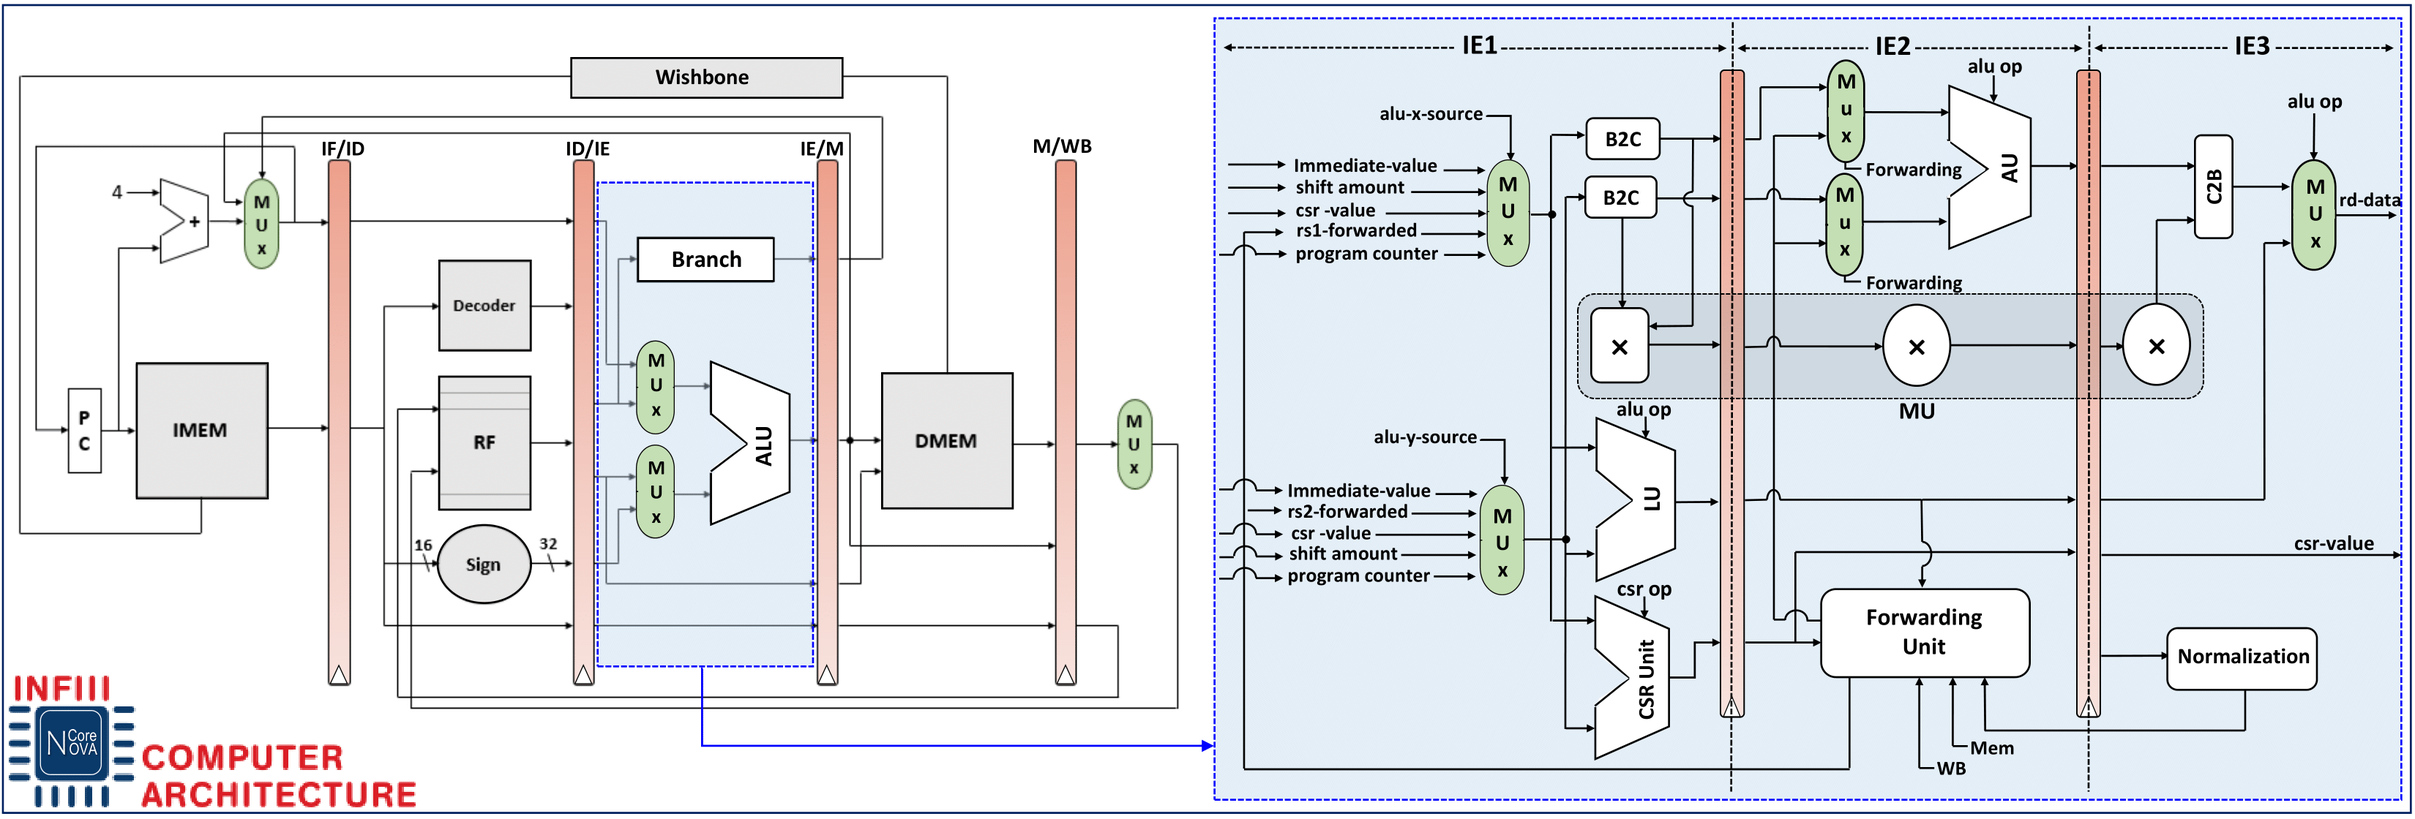
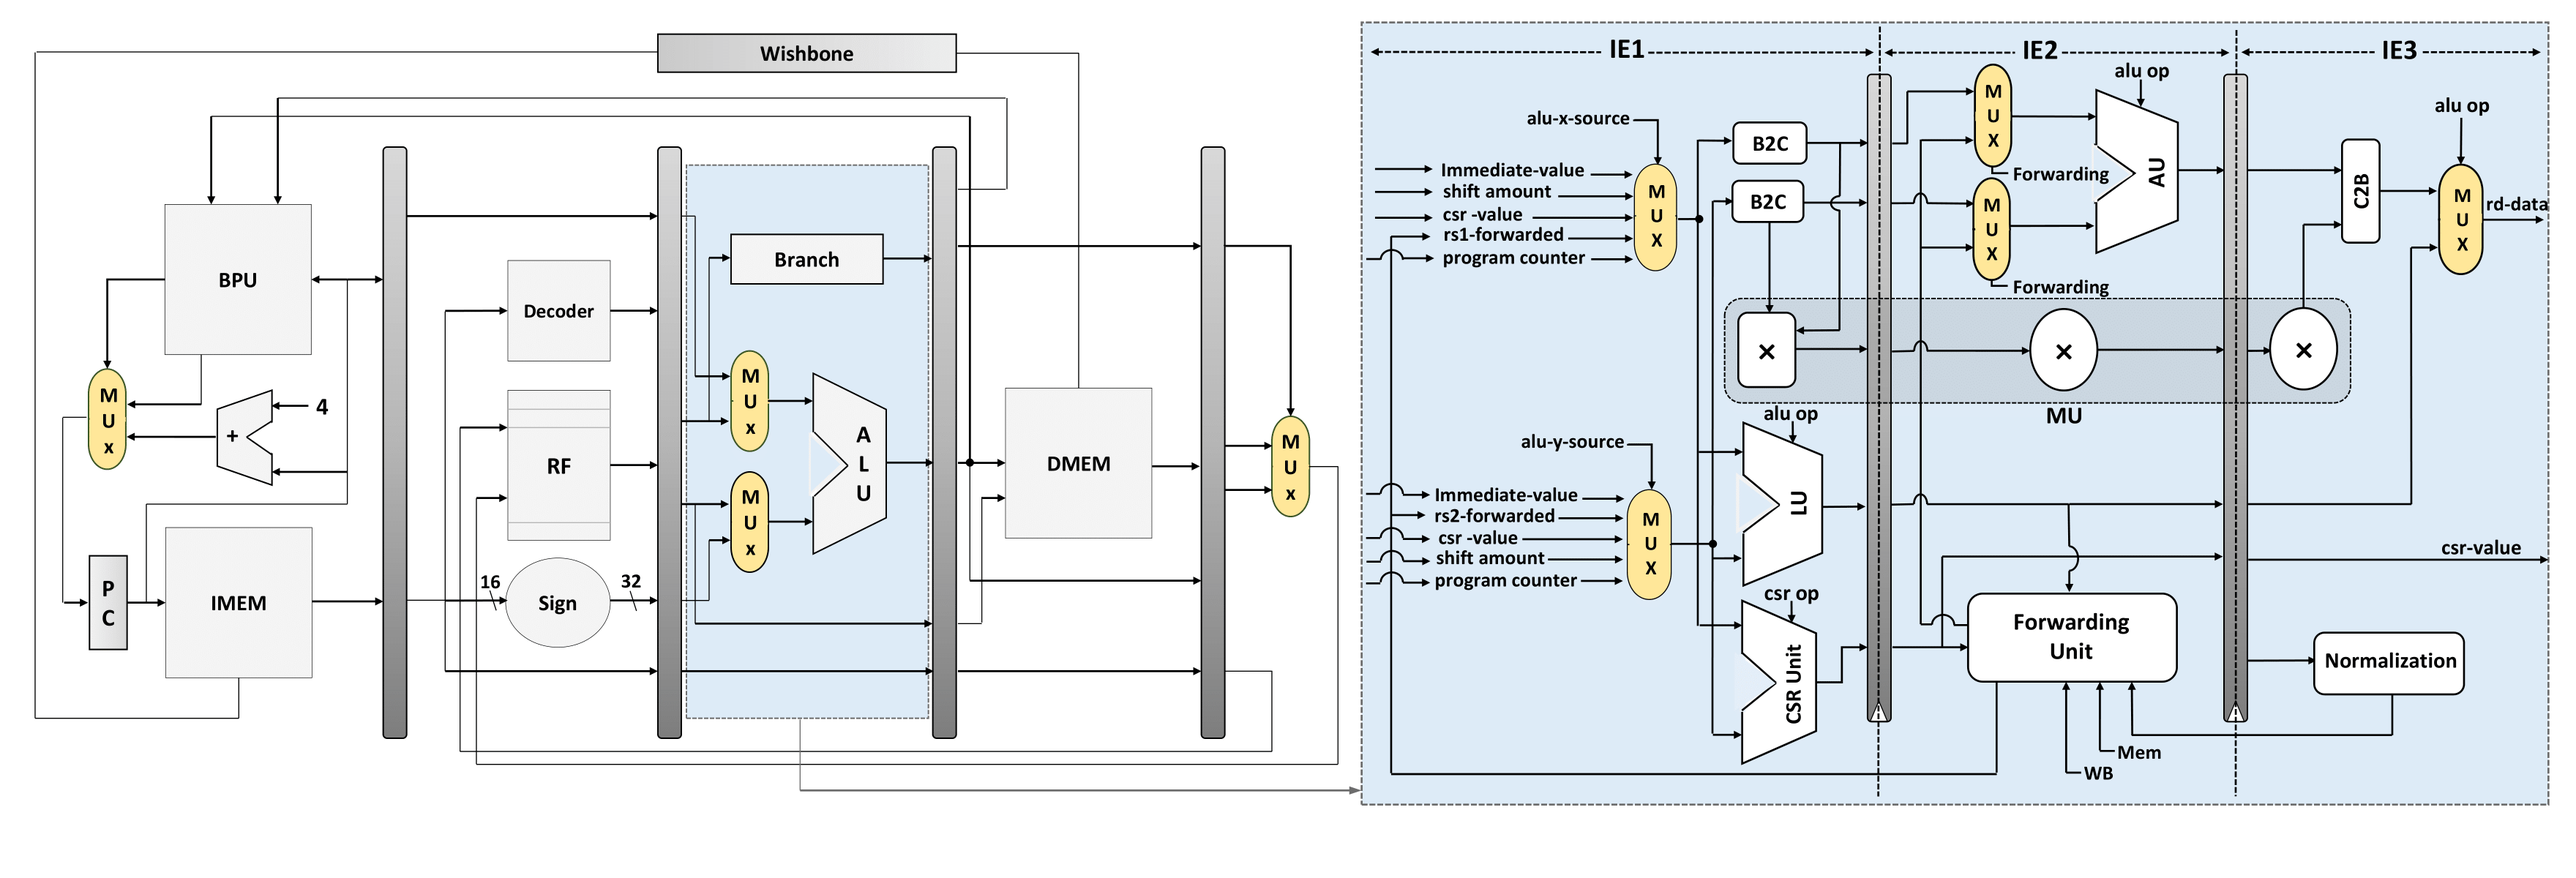
Minor updates in Readme.md files

diff --git a/example/README.md b/example/README.md
@@ -1,99 +1,68 @@
-# System-On-Chip Design using the NOVA Core
+# System-On-Chip Design using the NOVACore
 
-This folder contains an SoC design using the NOVA Core. The design
-has been synthesized using Vivado 2023.1 and tested on an zybo Z7-20 
-board from Digilent.
+This folder contains an SoC design using the NOVACore. The design has been synthesized using Vivado 2023.1 and tested on an zybo Z7-20 and ultra96-v2 boards.
 
-## Quick Start
+## Quick Start with Zybo
 
-In order to test the example design, start by creating a new project in
-Vivado. In the "Project Type" screen, select "RTL Project". Make sure
-the "Do not specify source at this time" box is *unchecked*.
+In order to test the example design, start by creating a new project in Vivado. In the "Project Type" screen, select "RTL Project". Make sure the "Do not specify source at this time" box is *unchecked*.
 
 ### Adding Source Files
 
-In the "Add Sources" screen, add all source files from the `src/`, `soc/`
-and `example/` directories. Some of the added files may not be used by the 
-design; after the project has been created,you can remove everything that 
-is not included under the `toplevel` entity in the hierarchy view.
+In the "Add Sources" screen, add all source files from the `src/`, `soc/` and `example/` directories. Some of the added files may not be used by the design; after the project has been created,you can remove everything that is not included under the `toplevel` entity in the hierarchy view.
 
 Before clicking "Next", make sure that the "Target language" is set to VHDL.
 
-In the "Add Constraints" screen, add the `zybo.xdc` file from the `constraints/`
-directory. If you are not synthesizing the design for the zybo board, you
-will have to modify this file to make the design work.
+In the "Add Constraints" screen, add the `zybo.xdc` file from the `constraints/` directory. If you are not synthesizing the design for the zybo board, you will have to modify this file to make the design work.
 
-After creating the project, verify that the toplevel entity in your project
-is called `toplevel` (from the `toplevel.vhd` file).
+After creating the project, verify that the toplevel entity in your project is called `toplevel` (from the `toplevel.vhd` file).
 
-In addition to the source files, a couple of IP modules are needed to take
-advantage of the FPGAs builtin resources - the following sections deal with
-adding and configuring these.
+In addition to the source files, a couple of IP modules are needed to take advantage of the FPGAs builtin resources - the following sections deal with adding and configuring these.
 
 ### Clock Generator
 
-The processor cannot run on the native 125 MHz clock signal provided
-by the development board. Therefore, it is necessary to use a clock management
-tile to synthesize the necessary system clock as well as other necessary clocks.
+The processor cannot run on the native 125 MHz clock signal provided by the development board. Therefore, it is necessary to use a clock management tile to synthesize the necessary system clock as well as other necessary clocks.
 
-Add a clock generator to the design using the Clocking Wizard. Name the generated
-component "clock_generator". Make sure the following options are selected in the
-"Clocking Options" tab:
+Add a clock generator to the design using the Clocking Wizard. Name the generated component "clock_generator". Make sure the following options are selected in the "Clocking Options" tab:
 
 * Frequency synthesis - Enables synthesis of clock frequencies we need.
 * Safe clock startup - Waits with starting the output clocks until the clock is stable.
 
-Set the name of the primary input clock to be `clk`, and verify that the input
-frequency is set to 125 MHz.
+Set the name of the primary input clock to be `clk`, and verify that the input frequency is set to 125 MHz.
 
-Go to the "Output Clocks" tab and enable `clk_out1`. Set the frequency
-of `clk_out1` to 95.500 MHz. This will be the main system clock.
+Go to the "Output Clocks" tab and enable `clk_out1`. Set the frequency of `clk_out1` to 95.500 MHz. This will be the main system clock.
 
-If you have peripherals that require additional clocks, you can enable more clock
-outputs here.
+If you have peripherals that require additional clocks, you can enable more clock outputs here.
 
 Rename `clk_out1` to `system_clk` to match the port names expected by the toplevel entity.
 
-At the bottom of the "Output Clocks" tab, find the "Enable Optional Inputs/Outputs"
-section and select `reset` and `locked` signals. The `locked` signal is used to
-release the system reset signal when the clock signal is stable.
+At the bottom of the "Output Clocks" tab, find the "Enable Optional Inputs/Outputs" section and select `reset` and `locked` signals. The `locked` signal is used to release the system reset signal when the clock signal is stable.
 
-Set the "Reset Type" to "Active low" - this makes it possible to connect the reset
-signal for the clock generator directly to the processor reset button on the development
-board.
+Set the "Reset Type" to "Active low" - this makes it possible to connect the reset signal for the clock generator directly to the processor reset button on the development board.
 
 ### AEE ROM
 
-The AEE (Application Execution Environment) ROM is a read-only memory intended to
-store bootloaders. Before continuing, build the bootloader application, located in
+The AEE (Application Execution Environment) ROM is a read-only memory intended to store bootloaders. Before continuing, build the bootloader application located in
 the `software/` directory.
 
     cd software/bootloader
     make
 
-Add a block RAM IP to use as the ROM using the Block Memory Generator. Name the component
-"aee_rom". In the "Basic" tab choose a "Native" interface type and set "Memory Type" to
-"Single-Port ROM".
+Add a block RAM IP to use as the ROM using the Block Memory Generator. Name the component "aee_rom". In the "Basic" tab choose a "Native" interface type and set "Memory Type" to "Single-Port ROM".
 
 Go to the "Port A Options" tab and set the following settings:
 
 * Port A Width: 32
 * Port A depth: 4096
 
-Disable the use of the enable pin and reset functionality, as these are not
-used by the ROM wrapper module. Also uncheck the "Primitives Output Register" box register.
+Disable the use of the enable pin and reset functionality, as these are not used by the ROM wrapper module. Also uncheck the "Primitives Output Register" box register.
 
-Under "Other Options", check the "Load Init File" option and give the location
-of the coefficient file for the bootloader application.
+Under "Other Options", check the "Load Init File" option and give the location of the coefficient file for the bootloader application.
 
 ### Test it!
 
-You should now be able to synthesize and test the design. Connect to the board and see if
-you can get some UART output. Hopefully it works :-)
+You should now be able to synthesize and test the design. Connect to the board and see if you can get some UART output. Hopefully it works :-)
 
-If you get any output from the bootloader, you can build one of the other applications
-and upload it to the board using the following command (substitute image.bin for the
-application's .bin file and `/dev/ttyUSB1` for your serial port):
+If you get any output from the bootloader, you can build one of the other applications and upload it to the board using the following command (substitute image.bin for the application's .bin file and `/dev/ttyUSB1` for your serial port):
 
-`cat image.bin /dev/zero | head -c128k | pv -s 128k -L 14400 > /dev/ttyUSB1`
+`cat img.bin /dev/zero | head -c128k | pv -s 128k -L 14400 > /dev/ttyUSB1`
 

diff --git a/README.md b/README.md
@@ -1,10 +1,10 @@
-# The NOVA Core
+# The NOVACore
 
 ![Processor architecture overview diagramme](docs/nova.png)
 
-The NOVA core is a straightforward 7-stage in-order RISC-V processor implemented in VHDL for FPGA use. It supports the 32-bit RV32IZmmul-Zicsr ISA, providing a RISC-V processor with a base set of integer arithmetic instructions (RV32I), a multiplication extension excluding division (Zmmul), and control and status register manipulation instructions (Zicsr) as per Specification version 2.0. Additionally, it supports significant portions of the machine mode defined in the RISC-V Privileged Architecture Specification v1.10.
+The NOVACore is a straightforward 7-stage in-order RISC-V processor implemented in VHDL for FPGA use. It supports the 32-bit RV32IZmmul-Zicsr ISA, providing a RISC-V processor with a base set of integer arithmetic instructions (RV32I), a multiplication extension excluding division (Zmmul), and control and status register manipulation instructions (Zicsr) as per Specification version 2.0. Additionally, it supports significant portions of the machine mode defined in the RISC-V Privileged Architecture Specification v1.10.
 
-The processor has been tested on Xilinx Zynq-7000 family(XC7Z020-1CLG400C) and Ultra96-V2 which is an Arm-based, AMD Xilinx Zynq UltraScale+ ™ MPSoC development board  using the example SoC design provided in the `example/` directory and the applications found in the `software/` directory. Synthesis and implementation has been tested on various versions of Xilinx' Vivado toolchain, most recently version 2023.1.
+The processor has been tested on the Xilinx Zynq-7000 family(XC7Z020-1CLG400C) and Ultra96-V2 which is an Arm-based, AMD Xilinx Zynq UltraScale+ ™ MPSoC development board  using the example SoC design provided in the `example/` directory and the applications found in the `software/` directory. Synthesis and implementation have been tested on various Xilinx's Vivado toolchain versions, most recently version 2023.1.
 
 ## Features
 
@@ -12,22 +12,23 @@ The processor has been tested on Xilinx Zynq-7000 family(XC7Z020-1CLG400C) and U
 * Supports large parts of the machine mode defined in the RISC-V Privileged Architecture version 1.10
 * Supports up to 8 individually maskable external interrupts (IRQs)
 * 7-stage RISC pipeline including 3-step Ternary Encoded Instruction Execution stage(IE: IE1,IE2,IE3)
+* 1-bit Dynamic Branch Prediction Unit(D-BPU)
 * Optional instruction cache
 * Supports the Wishbone bus, version B4
 
 ## Peripherals
 
-The project includes a variety of Wishbone-compatible peripherals for use in system-on-chip designs based on the NOVA Core.
+The project includes a variety of Wishbone-compatible peripherals for use in system-on-chip designs based on the NOVACore.
 The main peripherals are:
 
 * Timer - a 32-bit timer with compare interrupt
 * GPIO - a configurable-width generic GPIO module
-* Memory - a block RAM memory module
-* UART - a UART module with hardware FIFOs, configurable baudrate and RX/TX interrupts
+* Memory - a block RAM module
+* UART - a UART module with hardware FIFOs, configurable baud rate, and RX/TX interrupts
 
 ## Quick Start/Instantiating
 
-To instantiate the processor, add the source files from the `src/` folder to your project. Use the `pp_novacore`
+Add the source files from the `src/` folder to your project to instantiate the processor. Use the `pp_novacore`
 entity to instantiate a processor with a Wishbone interface. Some generics are provided to configure the processor core.
 
 An example System-on-Chip for the Arty development board can be found in the `example/` directory of the source repository.
@@ -37,11 +38,22 @@ An example System-on-Chip for the Arty development board can be found in the `ex
 To program the processor, you need an appropriate compiler toolchain. To compile a working toolchain, go to the
 [RISCV GNU toolchain repository](https://github.com/riscv/riscv-gnu-toolchain) and clone the project. Compile and install
 the toolchain using the following commands (note that `make` will both build and install the toolchain, ensure that the
-destination directory is writeable by your user):
+the destination directory is writeable by your user):
 
     ./configure --prefix=/opt/riscv-toolchain --with-abi=ilp32 --with-arch=rv32im
     make
+ 
+
+## Citation  
+
+If you are using **NOVACore** in your scientific or research activities, please cite it properly:  
+
+* F. EbrahimiAzandaryani and D. Fey, “CSD-Driven Speedup in RISC-V Processors,” Design and Architectures for Signal and Image Processing (DASIP)|HiPEAC,2025. 
+* F. EbrahimiAzandaryani and D. Fey, “Extern: Boosting RISC-V Core Performance using Ternary Encoding,” Microprocessors and Microsystems, vol. 107, 2024. 
+
+We appreciate your acknowledgment and contributions!
+
 
 ## Reference & License
 
-NOVA has been originated from an open-source 5-stage RISC-V processor: (https://opencores.org/projects/potato).
+NOVACore originated from an open-source 5-stage RISC-V processor: (https://opencores.org/projects/potato).
